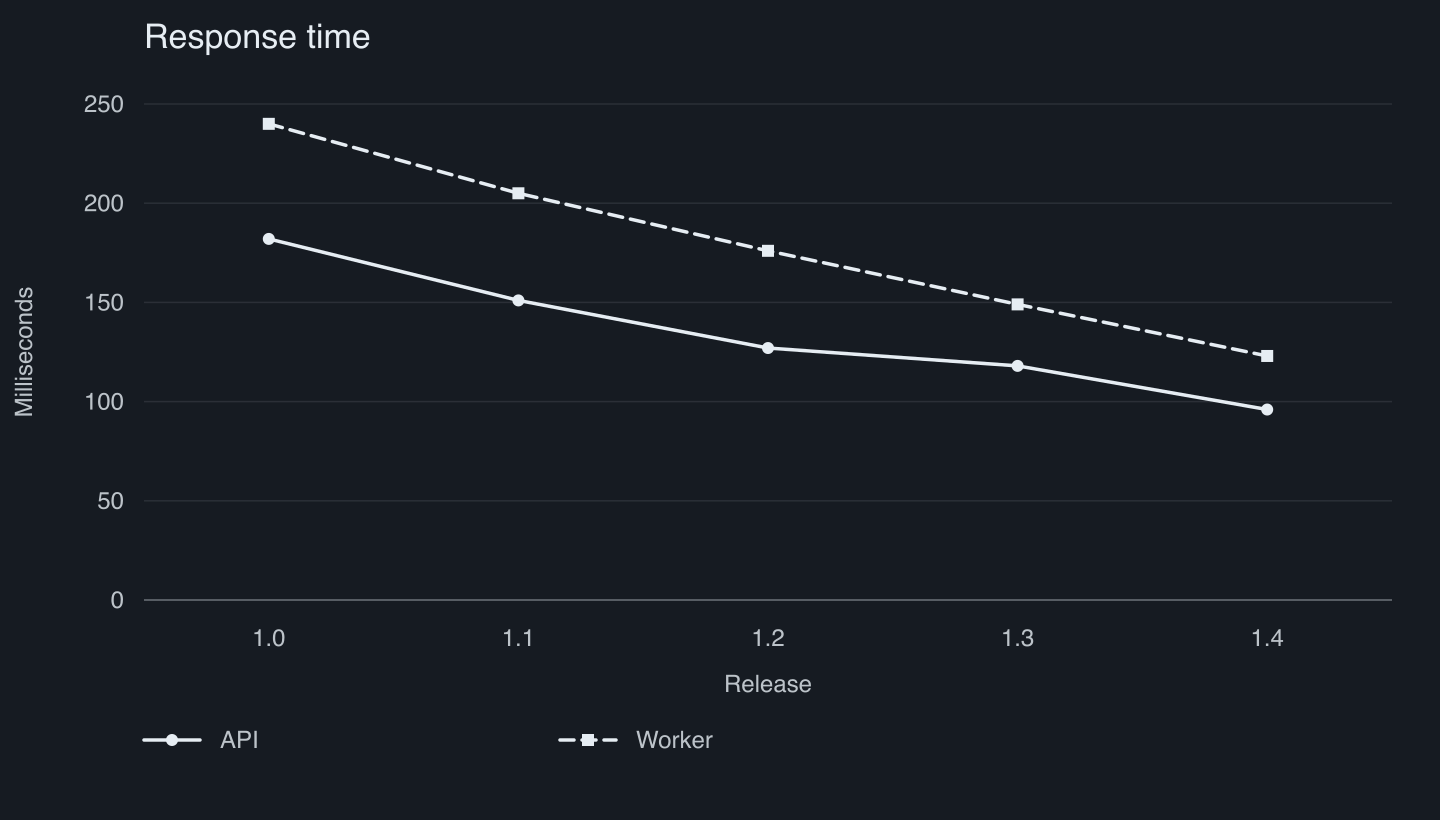
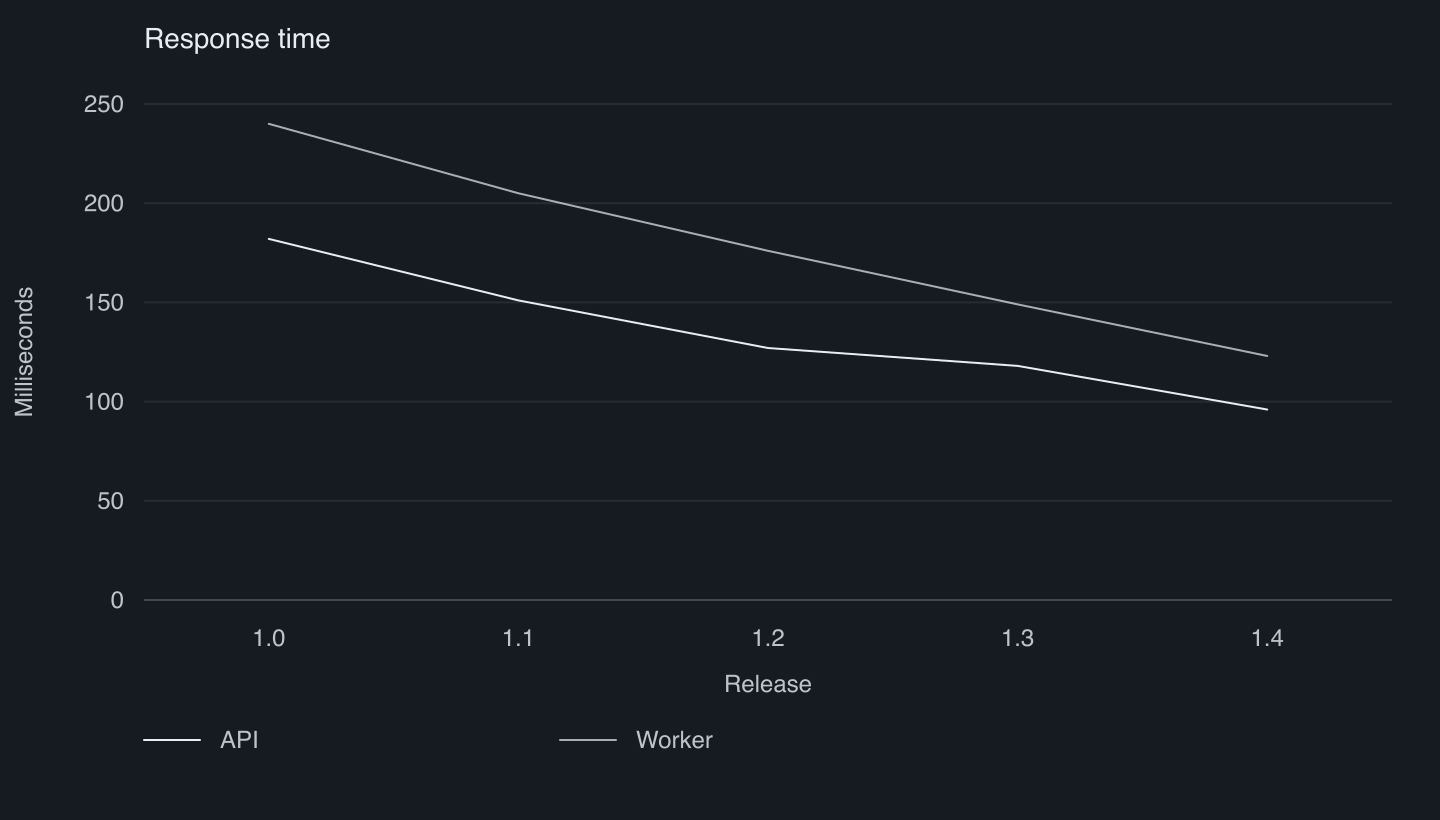
feat: simplify charts to plain lines and automatic grey tones

diff --git a/src/chart.tsx b/src/chart.tsx
@@ -1,6 +1,7 @@
 import { useId, type HTMLAttributes, type SVGProps } from 'react';
 import type { ChartDefinition } from './types.js';
 
+/** Optional legacy pattern styles; the default presentation uses plain lines. */
 export const lineStyles = [
   { name: 'Solid · circle', dash: '', shape: 'circle' },
   { name: 'Dashed · square', dash: '7 4', shape: 'square' },
@@ -14,6 +15,7 @@ export interface ChartProps extends Omit<SVGProps<SVGSVGElement>, 'children'> {
   'data-chart'?: string;
   locale?: string;
   numberFormat?: Intl.NumberFormatOptions;
+  patterns?: boolean;
 }
 function validate(value: unknown): asserts value is ChartDefinition {
   if (!value || typeof value !== 'object')
@@ -80,6 +82,7 @@ export function Chart({
   'data-chart': serialized,
   locale = 'en',
   numberFormat,
+  patterns = false,
   className,
   style,
   ...props
@@ -219,18 +222,24 @@ export function Chart({
         y2={y(0)}
       />
       {d.series.map((s, si) => (
-        <g key={si}>
+        <g key={si} className={`chartmd__series chartmd__series--${si % 6}`}>
           {d.type === 'line' ? (
             <>
               <polyline
                 className="chartmd__line"
                 points={s.values.map((v, i) => `${x(i)},${y(v)}`).join(' ')}
-                strokeDasharray={lineStyles[si % 6]!.dash}
-              />
+                strokeDasharray={
+                  patterns ? lineStyles[si % 6]!.dash : undefined
+                }
+              >
+                <title>{s.name}</title>
+              </polyline>
               {s.values.map((v, i) => (
                 <g key={i}>
                   <title>{`${d.labels[i]}, ${s.name}: ${format(v)}`}</title>
-                  <Marker index={si} x={x(i)} y={y(v)} />
+                  {(patterns || s.values.length === 1) && (
+                    <Marker index={patterns ? si : 0} x={x(i)} y={y(v)} />
+                  )}
                 </g>
               ))}
             </>
@@ -245,7 +254,6 @@ export function Chart({
                   width={Math.max(0, bw - 2)}
                   height={Math.abs(y(v) - y(0))}
                   fill="currentColor"
-                  opacity={Math.max(0.4, 0.9 - si * 0.1)}
                 >
                   <title>{`${d.labels[i]}, ${s.name}: ${format(v)}`}</title>
                 </rect>
@@ -298,11 +306,18 @@ export function Chart({
               <>
                 <line
                   className="chartmd__line"
+                  style={{
+                    opacity: patterns
+                      ? 1
+                      : [1, 0.7, 0.5, 0.85, 0.6, 0.4][si % 6],
+                  }}
                   x1="0"
                   x2="28"
-                  strokeDasharray={lineStyles[si % 6]!.dash}
+                  strokeDasharray={
+                    patterns ? lineStyles[si % 6]!.dash : undefined
+                  }
                 />
-                <Marker index={si} x={14} y={0} />
+                {patterns && <Marker index={si} x={14} y={0} />}
               </>
             ) : (
               <rect
@@ -311,7 +326,7 @@ export function Chart({
                 width="24"
                 height="8"
                 fill="currentColor"
-                opacity={Math.max(0.4, 0.9 - si * 0.1)}
+                opacity={[1, 0.7, 0.5, 0.85, 0.6, 0.4][si % 6]}
               />
             )}
             <text className="chartmd__label" x="38" y="4">

diff --git a/style.css b/style.css
@@ -10,23 +10,43 @@
 .chartmd__line {
   fill: none;
   stroke: currentColor;
-  stroke-width: var(--chartmd-line-width, 1.75);
+  stroke-width: var(--chartmd-line-width, 1);
+  vector-effect: non-scaling-stroke;
   stroke-linejoin: round;
   stroke-linecap: round;
 }
 .chartmd__marker {
   fill: currentColor;
 }
+.chartmd__series--0 {
+  opacity: 1;
+}
+.chartmd__series--1 {
+  opacity: 0.7;
+}
+.chartmd__series--2 {
+  opacity: 0.5;
+}
+.chartmd__series--3 {
+  opacity: 0.85;
+}
+.chartmd__series--4 {
+  opacity: 0.6;
+}
+.chartmd__series--5 {
+  opacity: 0.4;
+}
 .chartmd__grid,
 .chartmd__axis {
   stroke: currentColor;
-  stroke-width: 0.75;
+  stroke-width: 1;
+  vector-effect: non-scaling-stroke;
 }
 .chartmd__grid {
-  opacity: var(--chartmd-grid-opacity, 0.1);
+  opacity: var(--chartmd-grid-opacity, 0.08);
 }
 .chartmd__axis {
-  opacity: 0.35;
+  opacity: 0.15;
 }
 .chartmd__paper {
   opacity: var(--chartmd-paper-opacity, 0.07);
@@ -41,6 +61,6 @@
 }
 .chartmd__title {
   fill: currentColor;
-  font-size: 17px;
+  font-size: 14px;
   font-weight: 500;
 }

diff --git a/tests/presentation.test.tsx b/tests/presentation.test.tsx
@@ -11,11 +11,19 @@ const definition = {
 };
 describe('document presentation', () => {
   it('uses six distinct markers and wraps its legend into a second row', () => {
-    const html = renderToStaticMarkup(<Chart definition={definition} />);
+    const html = renderToStaticMarkup(
+      <Chart definition={definition} patterns />,
+    );
     for (const { shape } of lineStyles)
       expect(html).toContain(`data-marker="${shape}"`);
     expect(html).toContain('translate(72 374)');
     expect(html).not.toContain('NaN');
+  });
+  it('defaults to plain lines and automatic grey tones without point symbols', () => {
+    const html = renderToStaticMarkup(<Chart definition={definition} />);
+    expect(html).not.toContain('data-marker');
+    expect(html).not.toContain('stroke-dasharray');
+    expect(html).toContain('chartmd__series--1');
   });
   it('supports grid modes through Markdown syntax', () => {
     for (const grid of ['horizontal', 'paper', 'none']) {

diff --git a/README.md b/README.md
@@ -15,23 +15,19 @@ React is a peer dependency. No browser charting library is required.
 
 ## Appearance
 
-Version 0.2 uses thin strokes, small markers, inherited typography and colour,
-and evenly spaced numeric ticks. The chart background is transparent.
+Version 0.3 uses plain 1 px lines, quiet grey tones, inherited typography,
+and readable numeric ticks. The chart background is transparent. No point
+symbols or dash patterns are added by default.
 
-### Six line styles
+### Automatic series tones
 
-Every series receives a matching line and marker in both the plot and legend.
-Styles repeat after six series; there is no hard series limit, but two to six
-series are recommended for readability. Legends wrap into rows of three.
+The engine assigns a grey tone to each series in table-column order. Legends
+use the same tone as their lines. Two or three series work best in this quiet
+style; six tones are available before they repeat. For dense or overlapping
+data, use separate charts or enable `patterns` on the direct React component.
+Accessible descriptions retain series names and exact values.
 
-![Six line and marker styles](https://raw.githubusercontent.com/leracherry/chart.md/main/docs/chart-styles.png)
-
-1. Solid line with circles
-2. Dashed line with squares
-3. Dotted line with diamonds
-4. Dash-dot line with triangles
-5. Long dashes with plus markers
-6. Short dashes with cross markers
+![Automatic grey series tones](https://raw.githubusercontent.com/leracherry/chart.md/main/docs/chart-styles.png)
 
 ### Optional paper grid
 
@@ -130,16 +126,16 @@ Both backtick and tilde Markdown fences are supported.
 
 Charts use `currentColor`, so they follow the text colour of their Markdown
 container in light mode, dark mode, and custom themes. Multiple series remain
-one-colour and are distinguished with opacity and dash patterns.
+one-colour and are distinguished with automatically assigned grey tones.
 
 ```css
 .markdown-body {
   color: #24292f;
   --chartmd-color: currentColor;
-  --chartmd-grid-opacity: 0.1;
+  --chartmd-grid-opacity: 0.08;
   --chartmd-muted-opacity: 0.8;
   --chartmd-paper-opacity: 0.07;
-  --chartmd-line-width: 1.75;
+  --chartmd-line-width: 1;
 }
 
 @media (prefers-color-scheme: dark) {
@@ -185,7 +181,7 @@ scientific notation. Labels are plain text; Markdown emphasis inside cells is no
 - `chartComponents` — component map for `react-markdown`.
 - `Chart` — responsive and accessible React SVG component.
 - `parseChart` — parser for a chart fence body.
-- `lineStyles` — six built-in dash and marker combinations, in series order.
+- `lineStyles` — optional legacy dash and marker combinations used by `<Chart patterns />`.
 - `ChartDefinition`, `ChartSeries`, and `ChartType` — TypeScript types.
 
 The renderer uses no canvas, network request, generated image, or client-side

diff --git a/CHANGELOG.md b/CHANGELOG.md
@@ -1,5 +1,13 @@
 # Changelog
 
+## 0.3.0
+
+- Plain 1 px lines with automatically assigned grey tones; no symbols by default.
+- Lighter axes and guides, smaller headings, and inherited document typography.
+- Legacy dash and marker presentation remains available through `patterns`.
+- Refreshed previews and documentation based on GitHub-style Markdown tables.
+- Publish to npm, GitHub Packages, and GitHub Releases from one workflow.
+
 ## 0.2.0
 
 - Refined document styling: thin lines, small markers, inherited font and colour.
